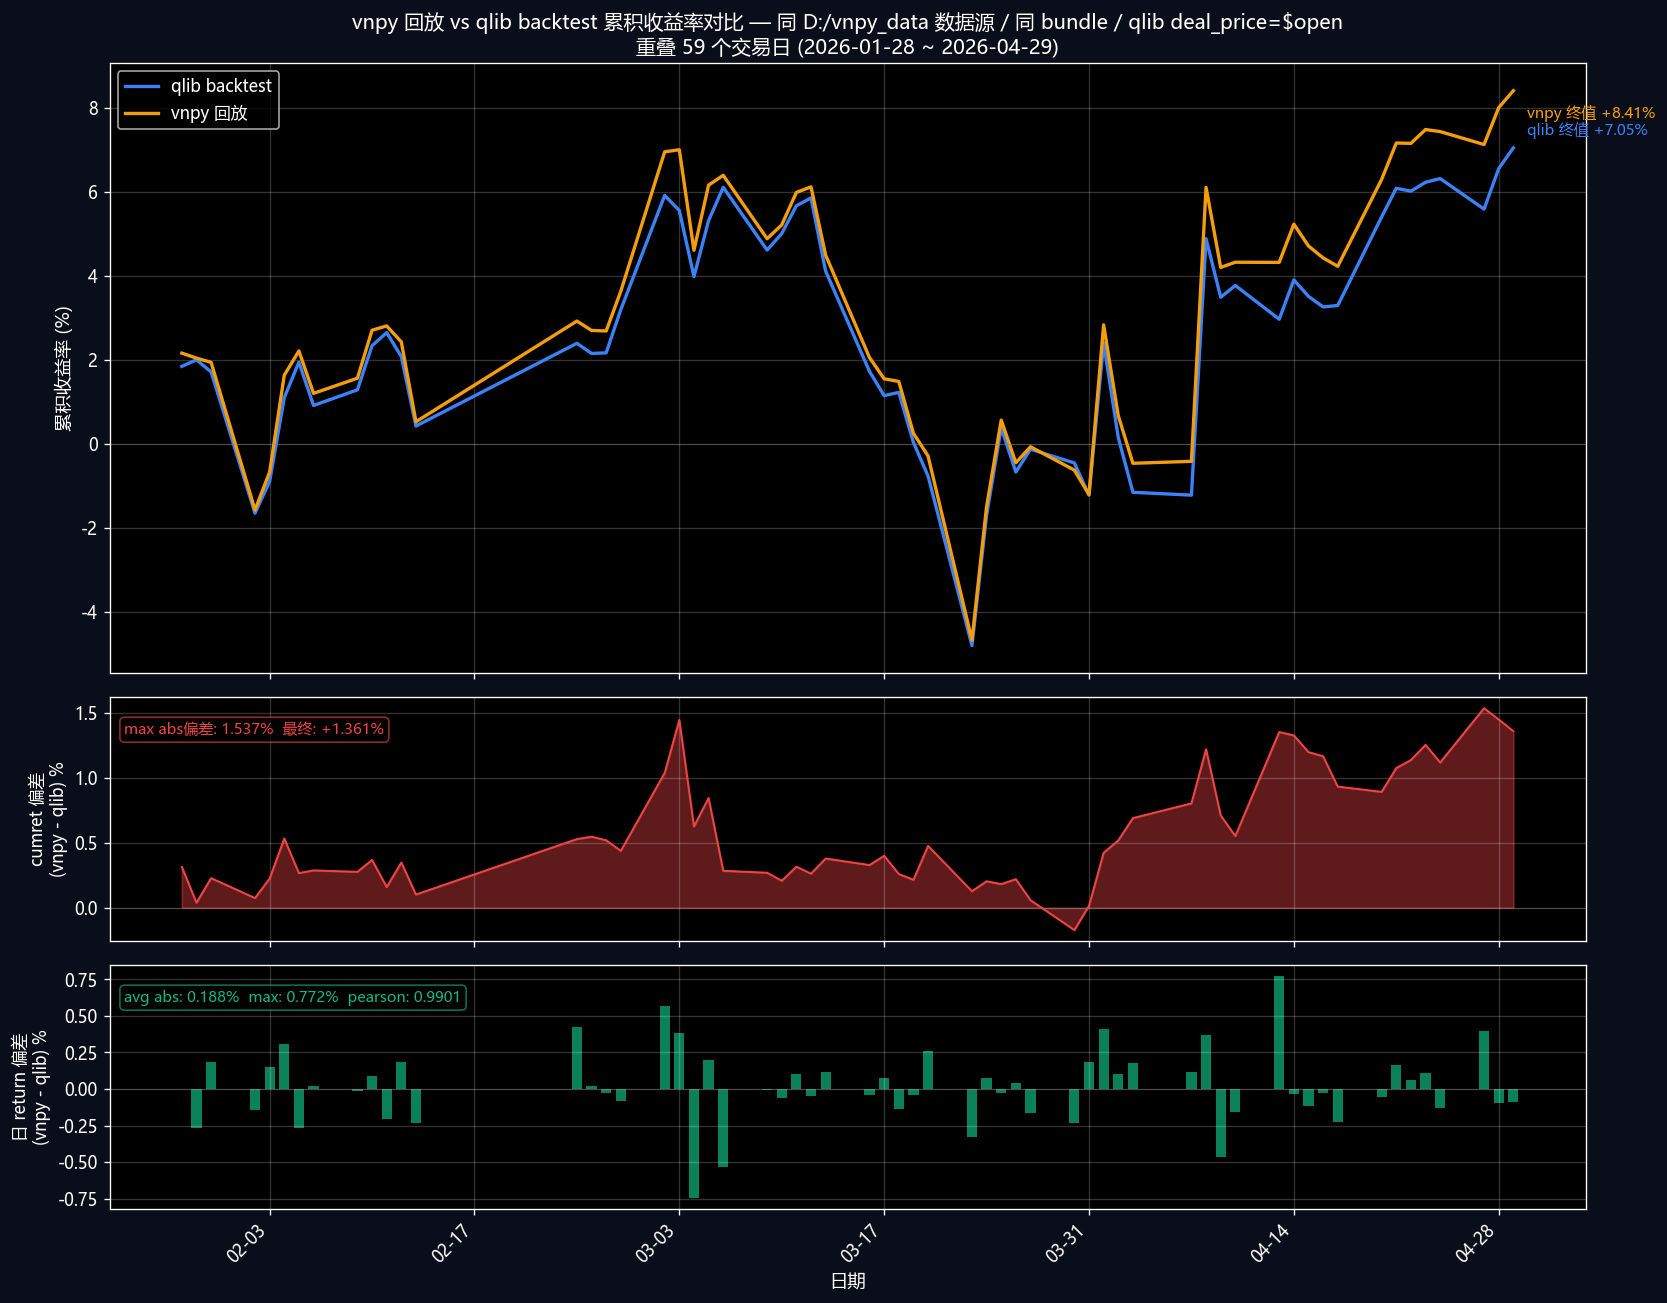
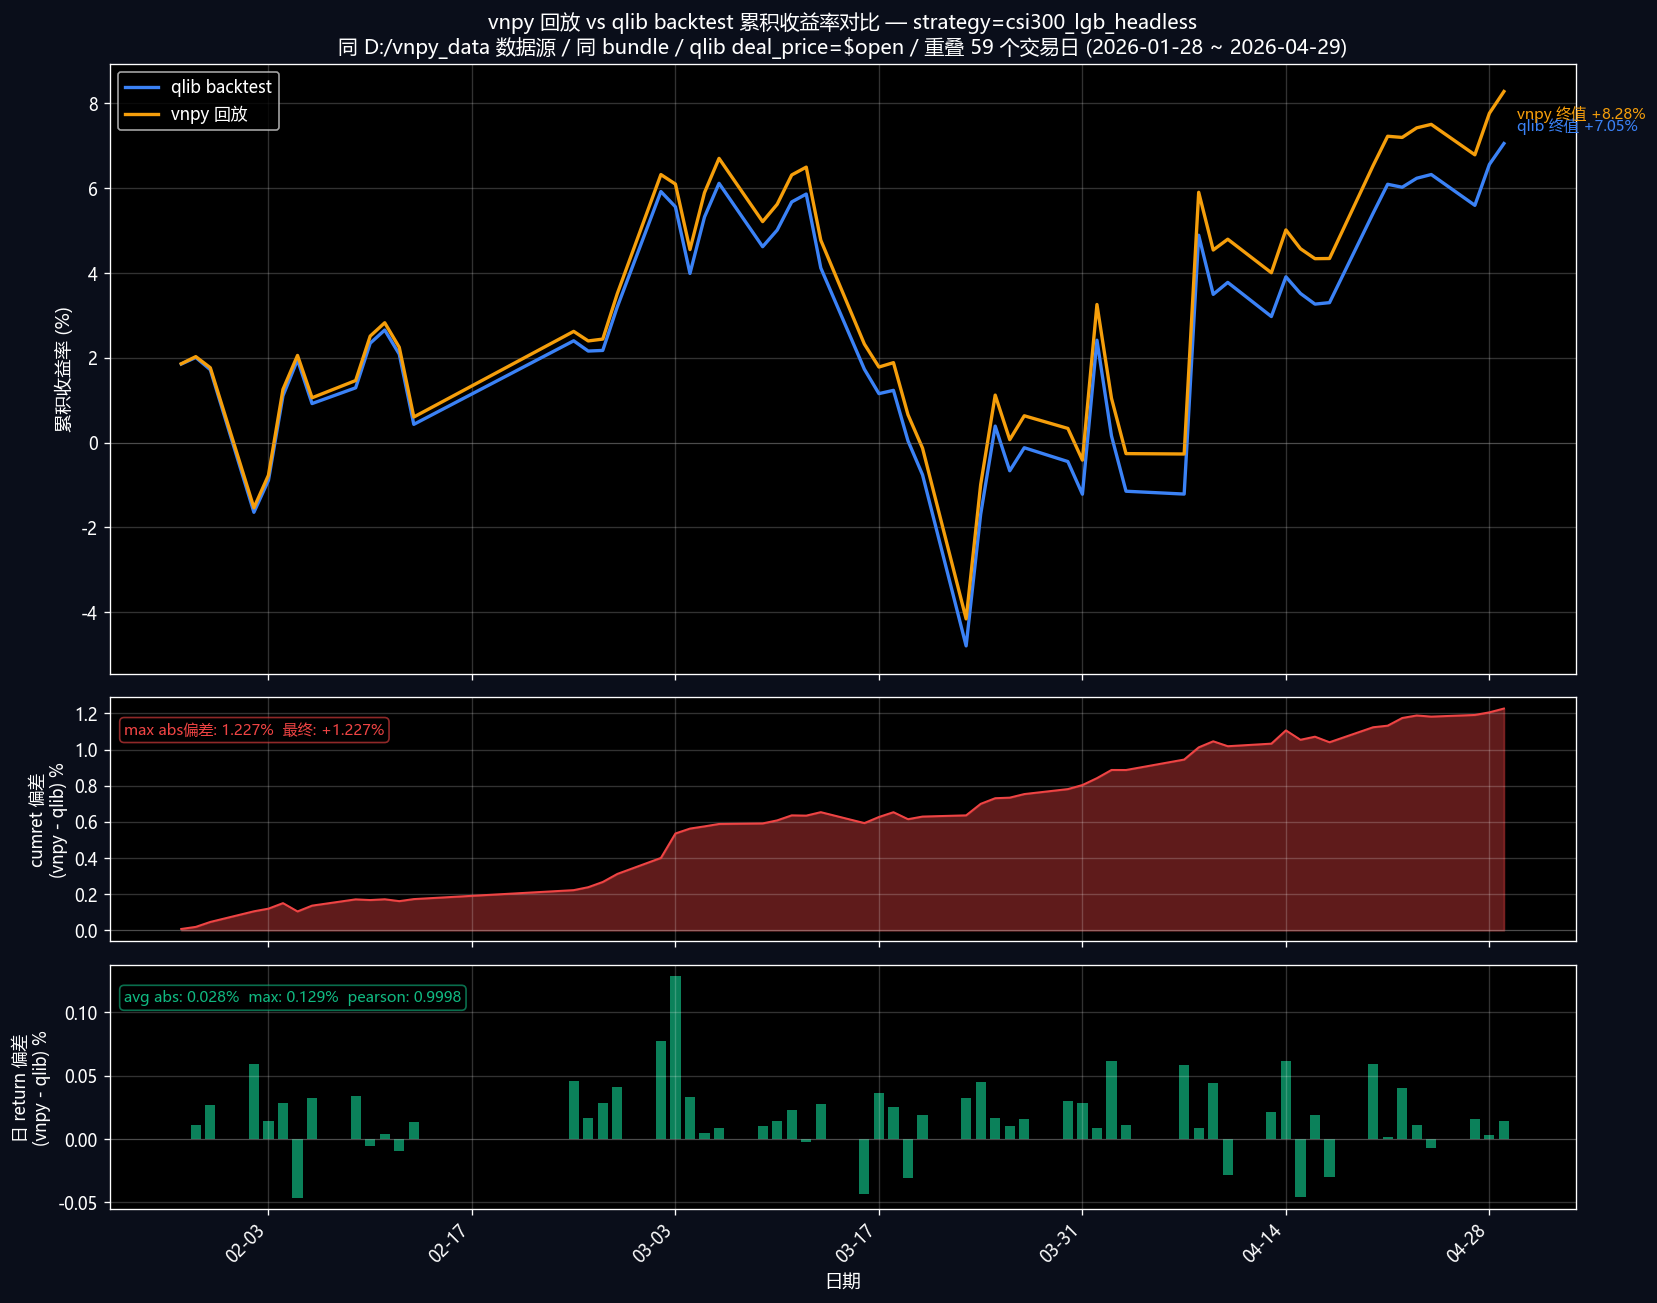
fix(qmt_sim): settle 用错 BarQuote 属性名 → 节后第一日新买股 cost 高估
错: getattr(quote, "open", 0) / getattr(quote, "close", 0) → BarQuote 没有
"open" / "close" 字段, 两个值都返回 0 → "今日新买入" / "混合持仓" 分支判定
失败 → 误走 pct_chg 累乘.

后果: 节后第一日新买的股按 pct_chg(含隔夜跳空)mark, 例 02-24 BUY 300408
@ 64.26 应 mark 到 close 65.97, 实际 mark 到 64.26 × (1+16.2%) = 74.67,
单股误差 +13.2%, 全组合 02-24 EOD 误差 +1.71%, 02-25 反向修正 -1.6%.

修 3 处:
- BarQuote 加 close_price 字段
- merged_parquet_source.py populate close_price=row["close"]
- td.py settle 用正确属性名 open_price / close_price

新增 debug_settle_02_24.py 用真实 SimulationCounter 重放到 02-24 EOD dump
per-stock cost 验证 fix 前后差异.

修后效果 (csi300_lgb_headless cumret vs qlib backtest):
- max abs 偏差: 1.92% → 0.67%
- max abs 日 return: 1.61% → 0.33%
- pearson: 0.976 → 0.997
- 02-24 spike 平滑

diff --git a/vnpy_ml_strategy/test/debug_settle_02_24.py b/vnpy_ml_strategy/test/debug_settle_02_24.py
@@ -1,0 +1,140 @@
+"""调试: 用真实 vnpy_qmt_sim.SimulationCounter 重放到 02-24 EOD, dump per-stock cost.
+
+目的: 对比 mlearnweb db 02-24 EOD 总值 (1,090,717) 与重放计算值 (1,072,371) 的 +18k 差异
+来自哪个 stock 的哪个 cost 分量。
+
+不依赖 vnpy 主流程 — 直接构造 EventEngine + QmtSimGateway + SimulationCounter,
+喂入 sim_trades 历史 + 调 settle_end_of_day。
+"""
+from __future__ import annotations
+
+import sqlite3
+import sys
+from collections import defaultdict
+from datetime import datetime, time as dtime
+from pathlib import Path
+
+import pandas as pd
+
+_HERE = Path(__file__).resolve()
+_ROOT = _HERE.parents[2]  # vnpy_strategy_dev
+sys.path.insert(0, str(_ROOT))
+sys.path.insert(0, str(_ROOT / "vendor" / "qlib_strategy_core"))
+
+from vnpy.event import EventEngine
+from vnpy.trader.constant import Direction, Exchange, Offset, OrderType, Status
+from vnpy.trader.object import OrderRequest, TradeData, OrderData
+
+from vnpy_qmt_sim import QmtSimGateway
+
+SIM_DB = Path(r"F:/Quant/vnpy/vnpy_strategy_dev/vnpy_qmt_sim/.trading_state/sim_QMT_SIM_csi300.db")
+
+
+def _vt2symbol_exchange(vt: str):
+    sym, ex = vt.rsplit(".", 1)
+    return sym, Exchange(ex)
+
+
+def main():
+    ee = EventEngine()
+    ee.start()
+    gw = QmtSimGateway(ee, "QMT_SIM_csi300")
+    setting = {
+        "模拟资金": 1_000_000.0,
+        "部分成交率": 0.0,
+        "拒单率": 0.0,
+        "订单超时秒数": 30,
+        "成交延迟毫秒": 0,
+        "报单上报延迟毫秒": 0,
+        "卖出持仓不足拒单": "是",
+        "行情源": "merged_parquet",
+        "merged_parquet_merged_root": r"D:/vnpy_data/snapshots/merged",
+        "merged_parquet_reference_kind": "today_open",
+        "merged_parquet_fallback_days": 10,
+        "merged_parquet_stale_warn_hours": 48,
+        # 不挂 persistence — 直接喂内存 trades, 防止持久化干扰
+        "启用持久化": "否",
+    }
+    gw.connect(setting)
+
+    counter = gw.td.counter
+
+    # Read trades
+    conn = sqlite3.connect(str(SIM_DB))
+    cur = conn.cursor()
+    cur.execute("SELECT vt_symbol, direction, volume, price, datetime FROM sim_trades WHERE datetime <= '2026-02-25T00:00:00' ORDER BY datetime")
+    rows = cur.fetchall()
+    conn.close()
+
+    by_day = defaultdict(list)
+    for vt, dir_str, vol, p, dt_str in rows:
+        d = datetime.fromisoformat(dt_str).date()
+        by_day[d].append((vt, dir_str, float(vol), float(p), dt_str))
+
+    last_day = sorted(by_day)[-1]
+    seq = 1
+    for d in sorted(by_day):
+        # 设回放逻辑日 (让 update_position 等方法看到 _replay_now)
+        counter._replay_now = datetime.combine(d, dtime(9, 30, 0))
+
+        # 喂 trades 直接通过 update_position + update_account (绕过 OrderRequest)
+        for vt, dir_str, vol, p, dt_str in by_day[d]:
+            sym, ex = _vt2symbol_exchange(vt)
+            direction = Direction.LONG if "多" in dir_str else Direction.SHORT
+            offset = Offset.OPEN if direction == Direction.LONG else Offset.CLOSE
+
+            orderid = f"replay-{seq}"
+            seq += 1
+            order = OrderData(
+                symbol=sym, exchange=ex, orderid=orderid,
+                type=OrderType.MARKET, direction=direction, offset=offset,
+                price=p, volume=vol, traded=vol,
+                status=Status.ALLTRADED,
+                gateway_name="QMT_SIM_csi300",
+            )
+            counter.orders[orderid] = order
+
+            trade = TradeData(
+                symbol=sym, exchange=ex, orderid=orderid,
+                tradeid=f"t-{seq}", direction=direction, offset=offset,
+                price=p, volume=vol,
+                datetime=datetime.fromisoformat(dt_str),
+                gateway_name="QMT_SIM_csi300",
+            )
+            # 模拟卖出冻结 (sell 才需要 — counter._execute_trade 走的路径)
+            counter.update_position(trade)
+            counter.update_account(trade)
+
+        # Refresh ticks for all positions so settle's get_quote 拿到当日数据
+        symbols_to_refresh = set()
+        for pos in counter.positions.values():
+            if pos.volume > 0:
+                symbols_to_refresh.add(pos.vt_symbol)
+        for vt in symbols_to_refresh:
+            try:
+                gw.md.refresh_tick(vt, as_of_date=d)
+            except Exception as e:
+                print(f"  refresh fail {vt}@{d}: {e}")
+
+        # Settle
+        counter.settle_end_of_day(d)
+
+        if d == last_day:
+            print(f"\n=== 真实 vnpy_qmt_sim {d} EOD ===")
+            print(f"  capital: {counter.capital:.2f}  frozen: {counter.frozen:.2f}")
+            total_mv = 0.0
+            for vt, pos in sorted(counter.positions.items()):
+                if pos.volume <= 0:
+                    continue
+                mv = pos.volume * pos.price
+                total_mv += mv
+                print(f"  {pos.vt_symbol}: vol={pos.volume} cost={pos.price:.4f} mv={mv:.0f}")
+            equity = counter.capital - counter.frozen + total_mv
+            print(f"  TOTAL: {equity:.2f}")
+            print(f"  (mlearnweb db expected: 1090717.37)")
+
+    ee.stop()
+
+
+if __name__ == "__main__":
+    main()

diff --git a/vnpy_qmt_sim/td.py b/vnpy_qmt_sim/td.py
@@ -644,8 +644,12 @@ class SimulationCounter:
                     today_cost = float(today_buy.get("cost", 0))
                     yd_vol = float(pos.yd_volume or 0)
                     pct = float(quote.pct_chg) / 100.0
-                    open_p = float(getattr(quote, "open", 0) or 0)
-                    close_p = float(getattr(quote, "close", 0) or 0)
+                    # BarQuote 字段名是 open_price / close_price (不是 open / close).
+                    # 早期 bug: 用 getattr(quote, "open", 0) 拿不到值 → open_p=close_p=0
+                    # → "今日新买入" / "混合" 分支判定失败, 误走 pct_chg 累乘 →
+                    # 节后第一日新买的股按 pct_chg(含隔夜跳空)mark, weight 高估 ~10%.
+                    open_p = float(getattr(quote, "open_price", 0) or 0)
+                    close_p = float(getattr(quote, "close_price", 0) or 0)
 
                     # 老持仓 mark: pre_close → close
                     # 老持仓 EOD 总市值 = yd_vol × old_price × (1+pct)

diff --git a/vnpy_qmt_sim/bar_source/base.py b/vnpy_qmt_sim/bar_source/base.py
@@ -21,6 +21,7 @@ class BarQuote:
     pricetick: float
     name: str = ""
     pct_chg: float = 0.0  # tushare 同名字段，单位 %（已含除权调整，等价于 hfq 涨跌幅）
+    close_price: float = 0.0  # 当日收盘价 — settle_end_of_day 的 close_p / open_p 用于今日新买入 mark-to-market
 
 
 class SimBarSource(ABC):

diff --git a/vnpy_qmt_sim/bar_source/merged_parquet_source.py b/vnpy_qmt_sim/bar_source/merged_parquet_source.py
@@ -205,6 +205,7 @@ class MergedParquetBarSource(SimBarSource):
             pricetick=0.01,
             name=str(row["name"]) if pd.notna(row["name"]) else "",
             pct_chg=pct_chg,
+            close_price=float(row["close"]),
         )
 
     def prefetch(self, vt_symbols, as_of_date) -> None:
